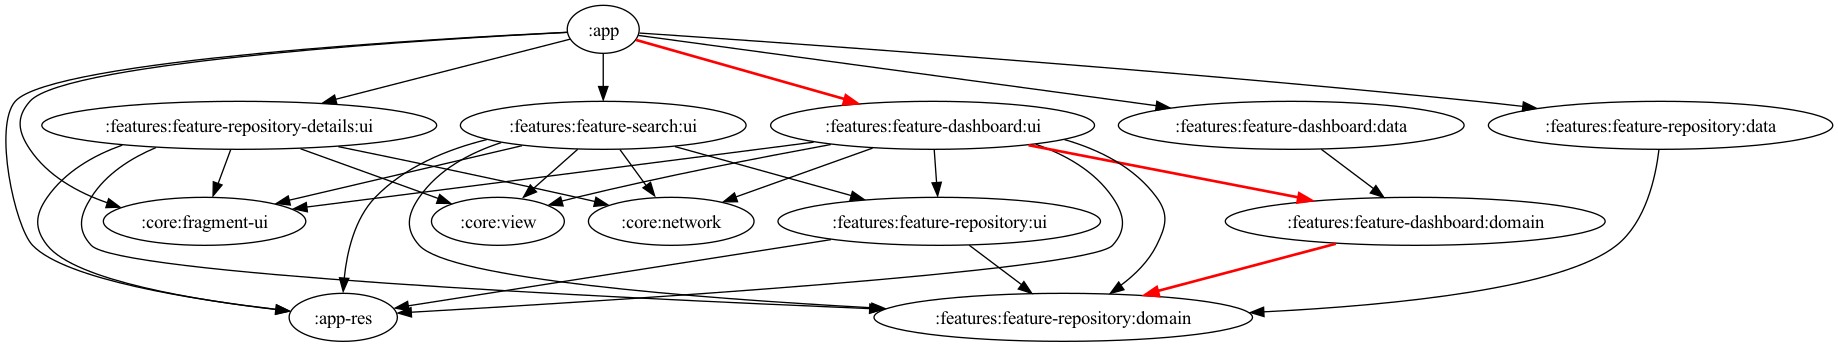
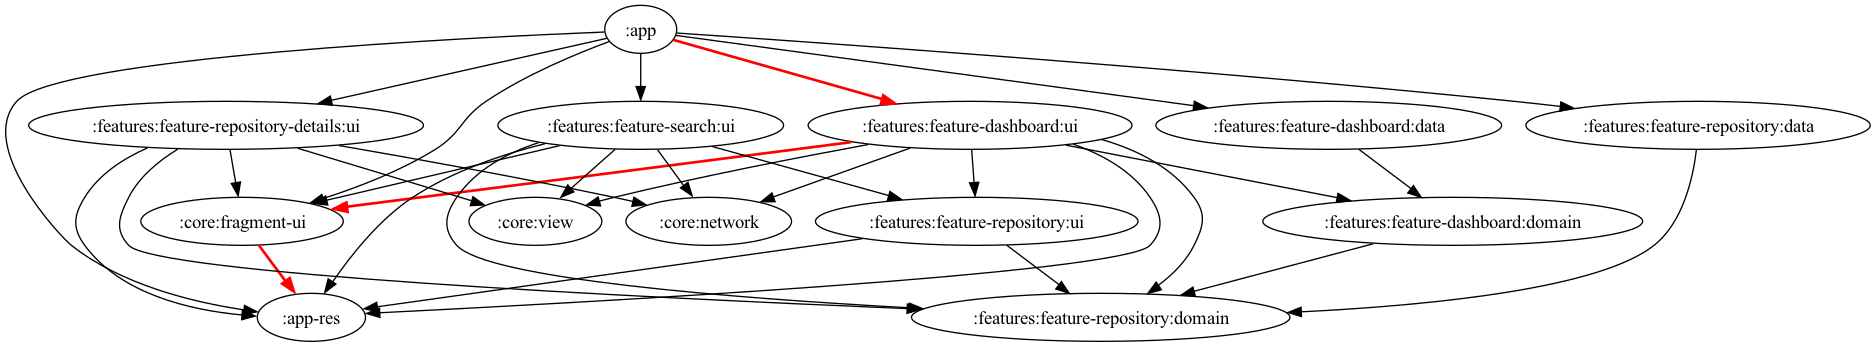
dev(dashboard): Adding IconToolbarBaseFragment

diff --git a/core/fragment-ui/src/main/java/io/yoobi/poc/cleanarch/core/fragment/ui/IconToolbarBaseFragment.kt b/core/fragment-ui/src/main/java/io/yoobi/poc/cleanarch/core/fragment/ui/IconToolbarBaseFragment.kt
@@ -1,0 +1,40 @@
+package io.yoobi.poc.cleanarch.core.fragment.ui
+
+import android.os.Bundle
+import android.view.LayoutInflater
+import android.view.View
+import android.view.ViewGroup
+import android.widget.LinearLayout
+import androidx.appcompat.app.AppCompatActivity
+import androidx.viewbinding.ViewBinding
+import com.google.android.material.appbar.MaterialToolbar
+import io.yoobi.poc.cleanarch.core.fragment.ui.databinding.IncludeIconToolbarBinding
+import javax.inject.Inject
+
+abstract class IconToolbarBaseFragment<T: ViewBinding>(
+    bindingInflater: (layoutInflater: LayoutInflater) -> T
+): BaseFragment<T>(bindingInflater) {
+
+    @Inject lateinit var toolbarManager: ToolbarManager
+
+    private lateinit var toolbar: MaterialToolbar
+
+    override fun onCreateView(
+        inflater: LayoutInflater,
+        container: ViewGroup?,
+        savedInstanceState: Bundle?
+    ): View? {
+        val view = super.onCreateView(inflater, container, savedInstanceState)
+        val includeIconToolbar = IncludeIconToolbarBinding.inflate(layoutInflater)
+        toolbar = includeIconToolbar.textToolbar
+        val linearLayout = LinearLayout(context).apply {
+            orientation = LinearLayout.VERTICAL
+            addView(includeIconToolbar.root)
+            addView(view)
+        }
+        toolbarManager.setupWithController(toolbar)
+        (activity as? AppCompatActivity)?.setSupportActionBar(toolbar)
+        return linearLayout
+    }
+
+}

diff --git a/features/feature-dashboard/ui/src/main/java/io/yoobi/poc/cleanarch/feature/dashboard/ui/DashboardFragment.kt b/features/feature-dashboard/ui/src/main/java/io/yoobi/poc/cleanarch/feature/dashboard/ui/DashboardFragment.kt
@@ -9,6 +9,7 @@ import androidx.lifecycle.lifecycleScope
 import com.google.android.material.snackbar.Snackbar
 import dagger.hilt.android.AndroidEntryPoint
 import io.yoobi.poc.cleanarch.core.fragment.ui.BaseFragment
+import io.yoobi.poc.cleanarch.core.fragment.ui.IconToolbarBaseFragment
 import io.yoobi.poc.cleanarch.core.network.Resource
 import io.yoobi.poc.cleanarch.feature.repository.ui.RepositoryAdapter
 import io.yoobi.poc.cleanarch.features.dashboard.ui.databinding.FragmentDashboardBinding
@@ -16,12 +17,13 @@ import kotlinx.coroutines.launch
 import javax.inject.Inject
 
 @AndroidEntryPoint
-class DashboardFragment: BaseFragment<FragmentDashboardBinding>(FragmentDashboardBinding::inflate) {
+class DashboardFragment: IconToolbarBaseFragment<FragmentDashboardBinding>(FragmentDashboardBinding::inflate) {
     private val viewModel: DashboardViewModel by viewModels()
     @Inject lateinit var navigation: DashboardNavigation
 
     override fun onViewCreated(view: View, savedInstanceState: Bundle?) {
         super.onViewCreated(view, savedInstanceState)
+
         val userAdapter = UserAdapter(UserAdapter.UserClickListener { name ->
             navigation.navigateToDetailsUser(name)
         })

diff --git a/app/src/main/java/io/yoobi/poc/cleanarch/MainActivity.kt b/app/src/main/java/io/yoobi/poc/cleanarch/MainActivity.kt
@@ -2,12 +2,9 @@ package io.yoobi.poc.cleanarch
 
 import android.os.Bundle
 import androidx.appcompat.app.AppCompatActivity
-import androidx.navigation.NavController
 import androidx.navigation.Navigation
-import androidx.navigation.fragment.NavHostFragment
 import androidx.navigation.ui.AppBarConfiguration
 import androidx.navigation.ui.NavigationUI
-import androidx.navigation.ui.setupWithNavController
 import dagger.hilt.android.AndroidEntryPoint
 import io.yoobi.poc.cleanarch.databinding.ActivityMainBinding
 
@@ -20,11 +17,6 @@ class MainActivity : AppCompatActivity() {
         super.onCreate(savedInstanceState)
         binding = ActivityMainBinding.inflate(layoutInflater)
         setContentView(binding.root)
-        val host: NavHostFragment = supportFragmentManager.findFragmentById(
-            R.id.nav_host_fragment
-        ) as NavHostFragment
-        val navController: NavController = host.navController
-        binding.bottomNavView.setupWithNavController(navController)
     }
 
     override fun onSupportNavigateUp(): Boolean {
